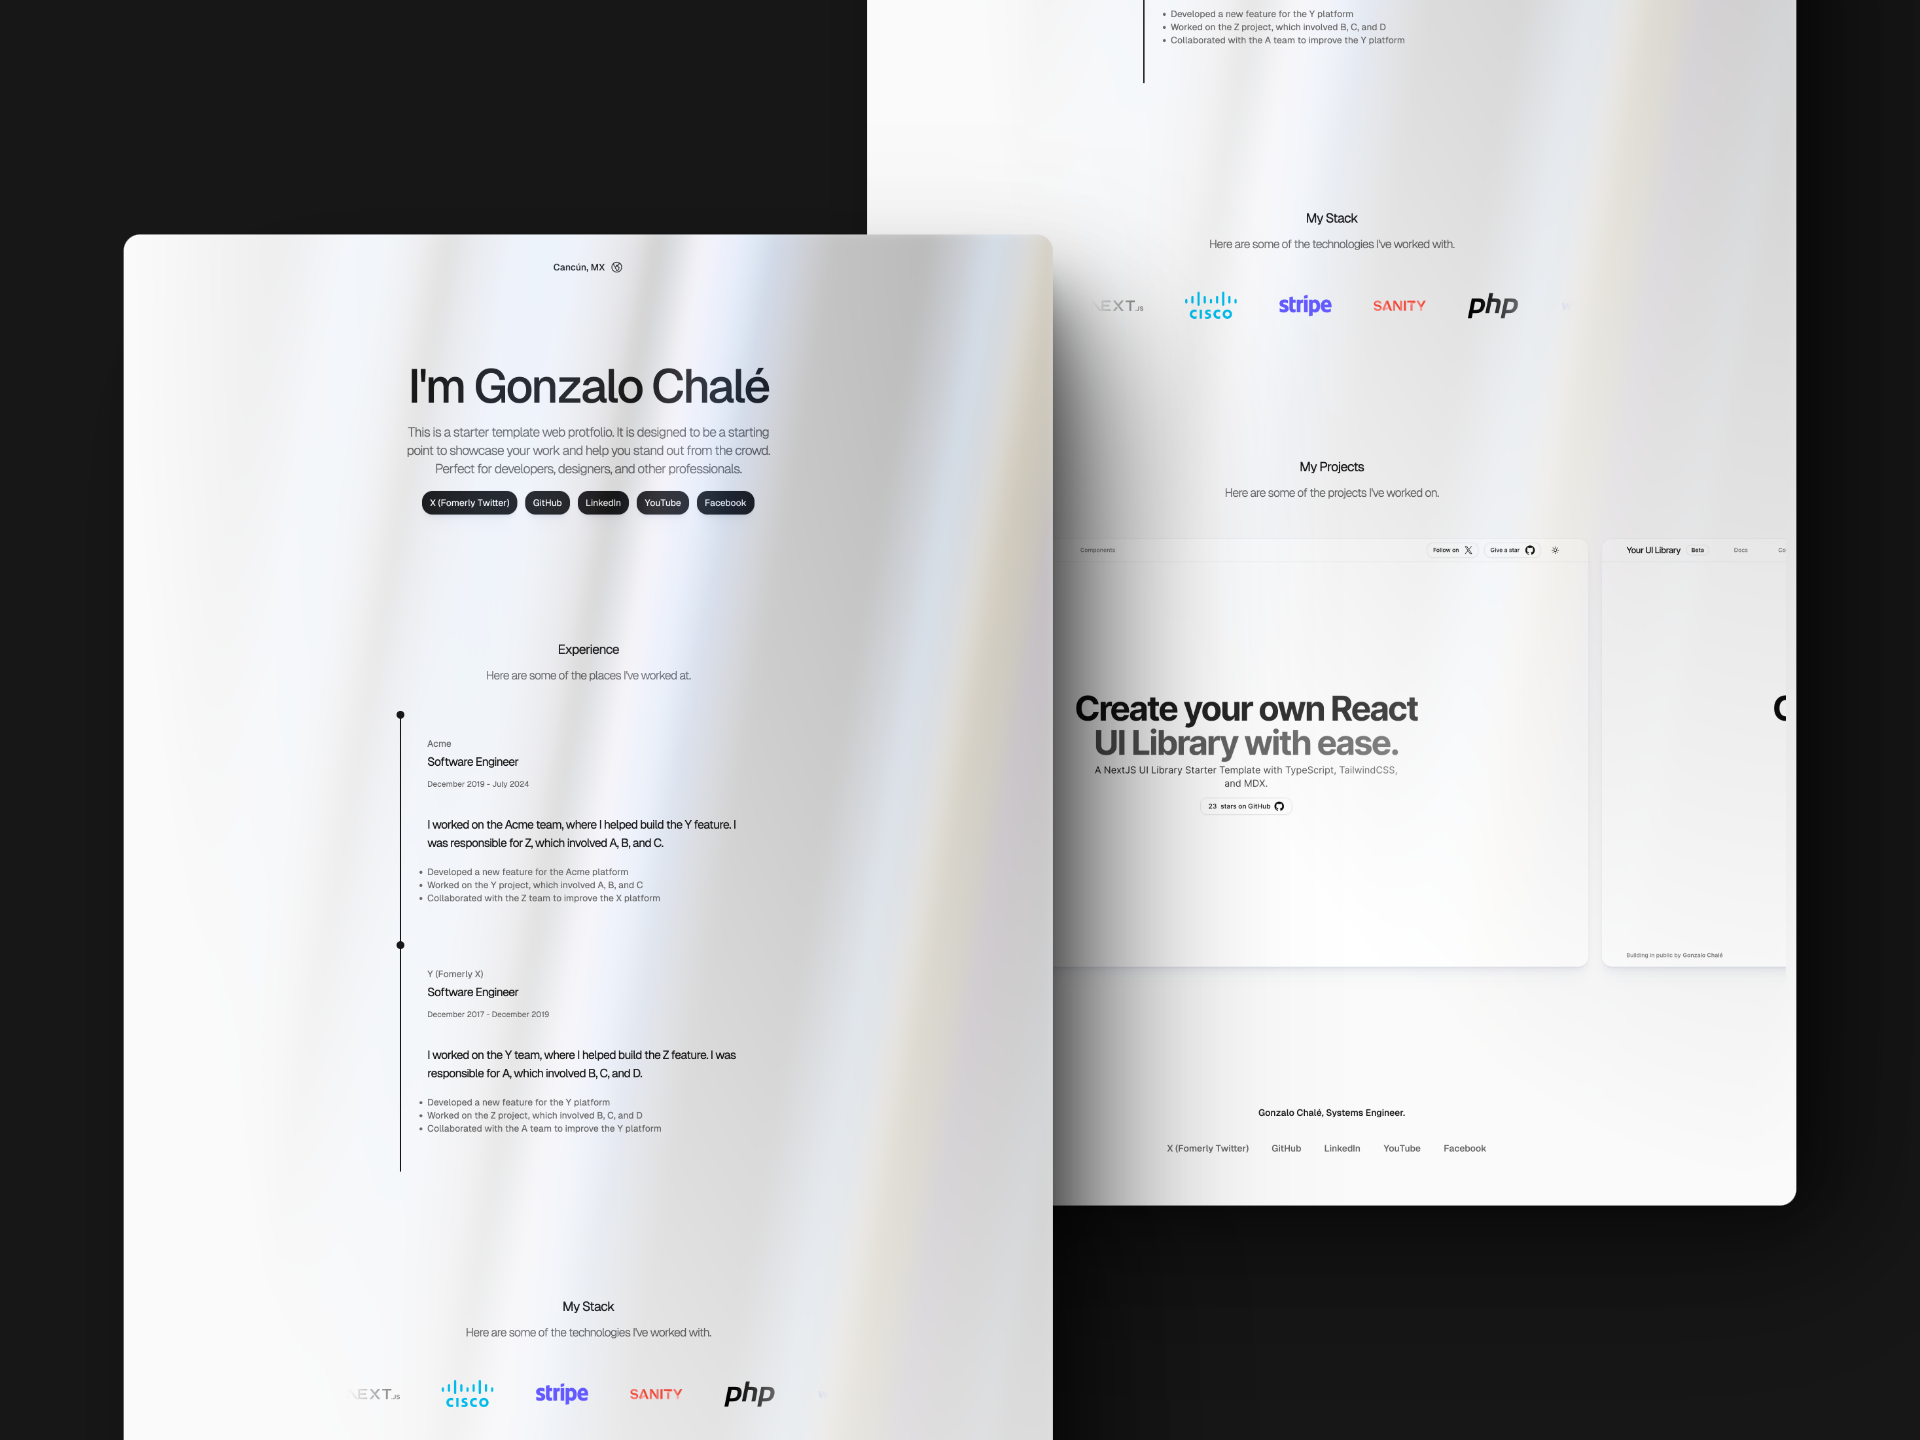
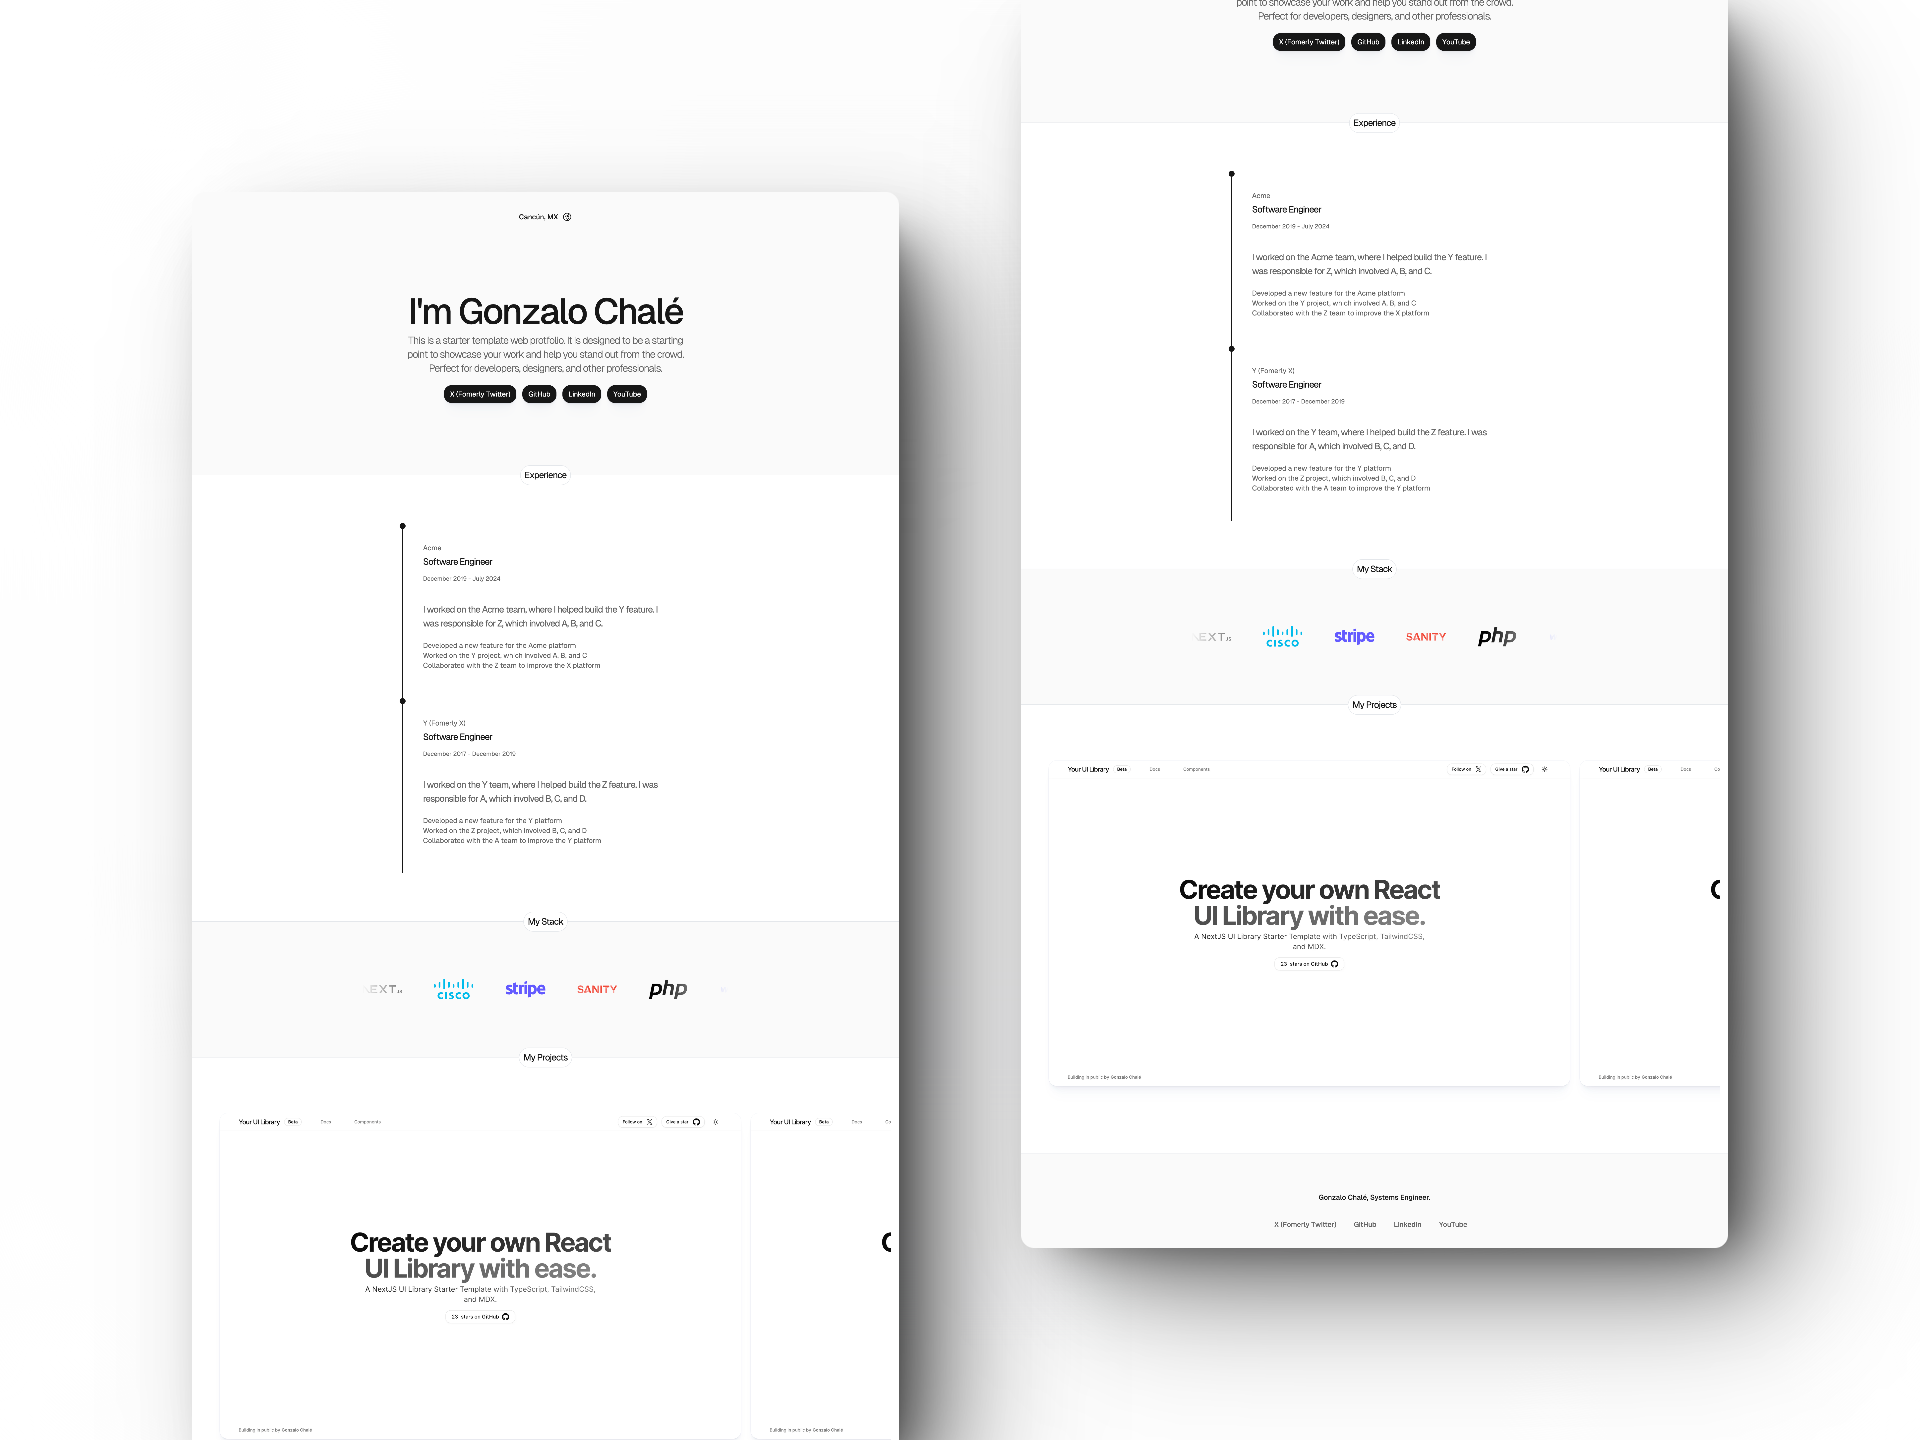
style:remove aurora bg because of ux issues

diff --git a/README.md b/README.md
@@ -1,4 +1,4 @@
-# Astro Portfolio Starter Template
+# Litefolio - Astro Portfolio Starter Template
 
 This is a free portfolio starter template built with Astro and Tailwind CSS. The portfolio configuration is managed through a `cv.json` file.
 
@@ -107,9 +107,8 @@ TailwindCSS is already configured in this repo, so you can start using it withou
 To customize your portfolio, edit the `cv.json` file located in the root directory. Here is an example of how the `cv.json` might look:
 
 ```json
-{
+  {
     "basics": {
-      "showAuroraBackground": false,
       "name": "Gonzalo Chalé",
       "label": "Systems Engineer",
       "image": "https://github.com/gonzalochale.png",
@@ -192,7 +191,7 @@ To customize your portfolio, edit the `cv.json` file located in the root directo
       "imageUrl": "/assets/project.webp",
       "url": "https://ui-library-template.vercel.app/"
     }]
-}
+  }
 ```
 
 ## Contributing
@@ -204,7 +203,7 @@ Contributions are welcome! Please open an issue or submit a pull request for any
 We would like to express our gratitude to the following open-source projects and their contributors:
 
 - **SVG Icons**: Thank you to [SVGL](https://www.svgl.app) for providing the high-quality SVG icons used in this project.
-- **UI Components**: We appreciate the amazing components from [AstroUI](https://astroui.vercel.app) and [AceternityUI](https://ui.aceternity.com/) which helped in building a seamless user interface.
+- **UI Components**: We appreciate the amazing components from [AstroUI](https://astroui.vercel.app) which helped in building a seamless user interface.
 - **Framework and CSS**: Special thanks to the teams behind [Astro](https://astro.build) and [Tailwind CSS](https://tailwindcss.com) for their incredible work in creating powerful tools for modern web development.
 
 Your contributions to the open-source community are invaluable and greatly appreciated. Thank you for making this project possible!
